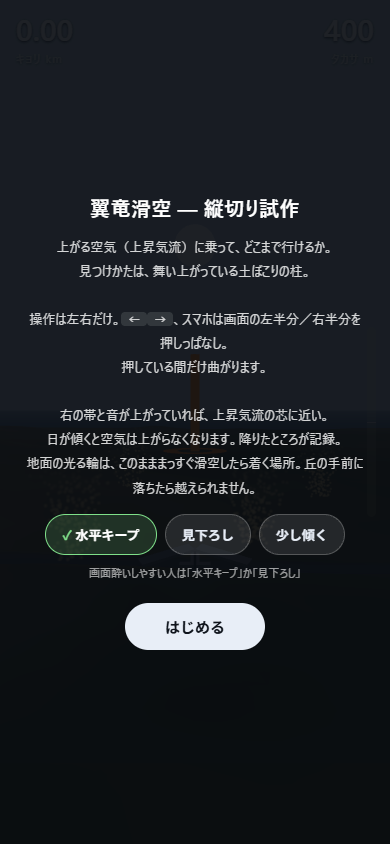
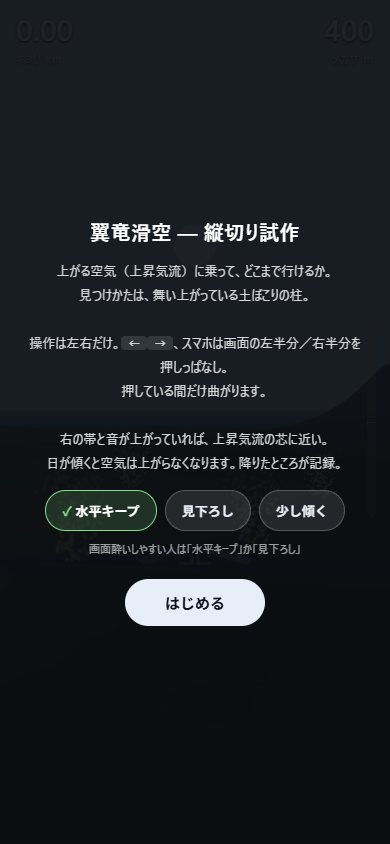
着地点の輪をやめ、越えられない高い山を置いた
所長の試走: 輪は面白くない。高い山があって迂回しなきゃいけない、くらいでいい。

- 着地点の輪と、その計算・検査ツールを削除
- 丘の世界に、5km区画ごと40%で高さ650〜950mの山。雲底では越えられないので回り込む
- 出発地点の近くには置かない。自動操縦で遊べる状態か確認のみ(6.7km、激突3/8)

Changed region(s): [[0.0615, 0.2156, 0.9231, 0.7701], [0.8615, 0.5853, 0.8923, 0.6469]]

diff --git a/src/world.js b/src/world.js
@@ -34,7 +34,38 @@ const smoothstep = (a, b, x) => { const t = Math.max(0, Math.min(1, (x - a) / (b
 function rng(a) { return () => { a |= 0; a = (a + 0x6D2B79F5) | 0; let t = Math.imul(a ^ (a >>> 15), 1 | a); t = (t + Math.imul(t ^ (t >>> 7), 61 | t)) ^ t; return ((t ^ (t >>> 14)) >>> 0) / 4294967296; }; }
 
 export class Terrain {
-  constructor(seed = 17, roughness = 1.0) { this.seed = seed; this.rough = roughness; this.water = 2.0; }
+  constructor(seed = 17, roughness = 1.0) { this.seed = seed; this.rough = roughness; this.water = 2.0; this.peakCells = new Map(); }
+  // 越えられない高い山。広い区画ごとに置くか決める。出発地点の近くには置かない
+  peakIn(ci, cj) {
+    const key = ci + ',' + cj;
+    if (this.peakCells.has(key)) return this.peakCells.get(key);
+    const r = rng(Math.imul(this.seed, 48271) ^ Math.imul(ci, 73856093) ^ Math.imul(cj, 19349663));
+    let pk = null;
+    if (r() < TUNE.peakChance) {
+      const S = TUNE.peakCell;
+      const x = (ci + 0.2 + 0.6 * r()) * S, y = (cj + 0.2 + 0.6 * r()) * S;
+      if (!(Math.abs(x) < 2500 && y > -2500 && y < 3500)) {
+        pk = { x, y, H: TUNE.peakMin + (TUNE.peakMax - TUNE.peakMin) * r(), R: 900 + 700 * r(), s: Math.floor(r() * 1000) };
+      }
+    }
+    this.peakCells.set(key, pk);
+    return pk;
+  }
+  peaks(x, y) {
+    if (!TUNE.peakChance) return 0;
+    const S = TUNE.peakCell, ci = Math.floor(x / S), cj = Math.floor(y / S);
+    let h = 0;
+    for (let i = ci - 1; i <= ci + 1; i++) for (let j = cj - 1; j <= cj + 1; j++) {
+      const p = this.peakIn(i, j);
+      if (!p) continue;
+      const q = ((x - p.x) ** 2 + (y - p.y) ** 2) / (p.R * p.R);
+      if (q > 4) continue;
+      // なだらかな裾＋少しごつごつさせた頂
+      const rough = 0.8 + 0.35 * ridged((x - p.x) / 700, (y - p.y) / 700, this.seed + p.s, 3);
+      h = Math.max(h, p.H * Math.exp(-q * 1.6) * rough);
+    }
+    return h;
+  }
   riverX(y) { return 900 * Math.sin(y / 5200) + 380 * Math.sin(y / 1900 + this.seed * .37); }
   height(x, y) {
     const d = Math.abs(x - this.riverX(y));
@@ -64,6 +95,7 @@ export class Terrain {
       const r = ridged(x / (TUNE.mtnWave * 0.8), y / (TUNE.mtnWave * 0.8), this.seed + 83, 3);
       const shape = Math.max(0, 0.6 * b + 0.4 * r - 0.35) / 0.65;
       mtn = TUNE.mtnHeight * shape * shape * (0.4 + 0.6 * smoothstep(150, 1300, d));
+      mtn = Math.max(mtn, this.peaks(x, y));   // 高い山は丘の上に重ねる
     } else if (TUNE.mtn) {
       mtn = TUNE.mtnHeight * ridged(x / TUNE.mtnWave, y / (TUNE.mtnWave * 2.6), this.seed + 71)
         * smoothstep(TUNE.mtnStart, TUNE.mtnStart + TUNE.mtnRamp, d);
@@ -98,6 +130,9 @@ export const TUNE = {
   // 山と尾根の上昇風(案C)。灰色の試作値。Astraに山を頼む前に、使える寸法をここで探る
   mtn: 0,             // 1で山あり。既定は今までどおり山なし(?world=ridge で山脈)
   mtnMode: 'noise',   // 'noise'=ノイズの山 / 'ranges'=つながった山脈
+  peakChance: 0,      // 高い山を置く確率(区画ごと)。丘の世界で使う
+  peakCell: 5000,     // 区画の大きさ [m]
+  peakMin: 650, peakMax: 950,   // 高い山の高さ [m]。上昇気流の雲底(地面から最大280m)では越えられない
   rangeOffsets: [2600, 5400],   // 川から山脈までの距離 [m]
   rangeWidth: 700,    // 山脈の裾の広さ [m]
   mtnHeight: 340,     // 山の高さの最大 [m]
@@ -115,7 +150,8 @@ export const TUNE = {
 export const WORLDS = {
   flat: {},
   // 既定。尾根の風は使わず、起伏そのものを「避けるか越えるか」の判断にする(所長の試走 2026-09-17)
-  hills: { mtn: 1, mtnMode: 'hills', mtnHeight: 220, mtnWave: 2400 },
+  // 高い山はたまに置く。越えられないので回り込む(所長 2026-09-17)。着地点の輪は「面白くない」で廃止
+  hills: { mtn: 1, mtnMode: 'hills', mtnHeight: 220, mtnWave: 2400, peakChance: 0.4 },
   ridge: { mtn: 1, mtnMode: 'ranges', mtnHeight: 550, rangeWidth: 700, windSpeed: 11, ridgeH: 240, leeCap: 2.5 },
 };
 

diff --git a/src/scene.js b/src/scene.js
@@ -1,6 +1,5 @@
 import * as THREE from 'three';
 import { TUNE } from './world.js';
-import { glideReach } from './flight.js';
 
 // three.jsは右手系で、+X は画面の左に出る。
 // シミュレーション側の x(右が正) をそのまま渡すと左右が反転するので、描画のときだけ反転させる。
@@ -259,15 +258,6 @@ export class View {
     this.dust = new Dust(field);
     this.clouds = new Clouds(field);
     this.scene.add(this.dust.points, this.clouds.points);
-    // このまままっすぐ滑空したら着く場所。地面の輪と細い柱で示す
-    const reachMat = new THREE.MeshBasicMaterial({ color: 0xff8a2a, transparent: true, opacity: 0.95,   // 土ぼこり(クリーム)と見分ける色
-      depthTest: false, depthWrite: false, fog: false, side: THREE.DoubleSide });
-    this.reachRing = new THREE.Mesh(new THREE.RingGeometry(0.55, 1, 48), reachMat);
-    this.reachRing.rotation.x = -Math.PI / 2;
-    this.reachPole = new THREE.Mesh(new THREE.CylinderGeometry(1, 1, 1, 6), reachMat);
-    this.reachRing.renderOrder = this.reachPole.renderOrder = 5;
-    this.scene.add(this.reachRing, this.reachPole);
-    this.reach = null;
     this.glider = makeGlider();
     this.scene.add(this.glider);
     this.fog = new THREE.FogExp2(0xbfd0e0, 0.000075);
@@ -321,19 +311,6 @@ export class View {
     this.dust.update(g.x, g.y, dt, sun);
     this.clouds.update(g.x, g.y, sun);
     this.glider.position.set(SX * g.x, g.z, g.y);
-    // 着地点: 旋回中は向きが変わり続けて意味がないので、傾けるほど薄くする
-    const r = this.reach = glideReach(g);
-    const fade = Math.max(0, 1 - Math.abs(g.bank) / (25 * Math.PI / 180));
-    const on = g.alive && r.hit && fade > 0.02;
-    this.reachRing.visible = this.reachPole.visible = on;
-    if (on) {
-      const k = Math.max(28, r.dist * 0.055);               // 遠くても見える大きさ(1km先で約55m)
-      this.reachRing.position.set(SX * r.x, r.z + 2, r.y);
-      this.reachRing.scale.setScalar(k);
-      this.reachPole.position.set(SX * r.x, r.z + k * 1.5, r.y);
-      this.reachPole.scale.set(k * 0.16, k * 3.0, k * 0.16);
-      this.reachRing.material.opacity = 0.95 * fade;
-    }
     this.glider.rotation.set(0, -g.head, g.bank, 'YXZ');
     // 夕暮れ。時計ではなく空の色で残り時間が分かる
     const day = new THREE.Color(0xbfd0e0), dusk = new THREE.Color(0xd98a5a), night = new THREE.Color(0x2b3348);

diff --git a/src/flight.js b/src/flight.js
@@ -15,19 +15,6 @@ export const sink = V => AIR.c1 / V + AIR.c2 * V * V;
 export const glideRatio = V => V / sink(V);
 // 実際に届く距離は、上昇風の外の沈下こみで決まる。ここを忘れると届かない柱へ突っ込む。
 export const effGlide = V => V / (sink(V) + TUNE.ambient);
-// このまま同じ向きにまっすぐ滑空したら、どこで地面に着くか。上昇風は当てにしない。
-// 地面にぶつかる危険は、いつでも画面から読めるようにするための計算
-export function glideReach(g, maxDist = 9000, step = 60) {
-  const V = AIR.Vcruise, drop = step / effGlide(V);
-  const sx = Math.sin(g.head), sy = Math.cos(g.head);
-  let x = g.x, y = g.y, z = g.z;
-  for (let d = step; d <= maxDist; d += step) {
-    x += sx * step; y += sy * step; z -= drop;
-    const h = g.t.height(x, y);
-    if (z <= h + 2) return { x, y, z: h, dist: d, hit: true };
-  }
-  return { x, y, z: g.t.height(x, y), dist: maxDist, hit: false };
-}
 export const sunlight = t => { const u = Math.max(0, Math.min(1, t / AIR.day)); return Math.max(0, 1 - u * u); };
 
 export class Glider {

diff --git a/index.html b/index.html
@@ -60,8 +60,7 @@
       操作は左右だけ。<kbd>←</kbd><kbd>→</kbd>、スマホは画面の左半分／右半分を押しっぱなし。<br>
       押している間だけ曲がります。<br><br>
       右の帯と音が上がっていれば、上昇気流の芯に近い。<br>
-      日が傾くと空気は上がらなくなります。降りたところが記録。<br>
-      地面の光る輪は、このまままっすぐ滑空したら着く場所。丘の手前に落ちたら越えられません。
+      日が傾くと空気は上がらなくなります。降りたところが記録。
     </p>
     <div id="cams" role="radiogroup" aria-label="カメラ">
       <button type="button" data-cam="a" role="radio">水平キープ</button>

diff --git a/src/main.js b/src/main.js
@@ -174,7 +174,6 @@ window.__slice = {
   ridgeAt(x, y, z) { return field.ridgeAt(x, y, z, sunlight(glider.time)); },
   terrainHeight(x, y) { return terrain.height(x, y); },
   riverX(y) { return terrain.riverX(y); },
-  reach() { return view.reach; },
   forceInput: null,
   _view() { return { camHead: view.camHead, dust: view.dust.points, clouds: view.clouds.points,
                      local: (x, y, z) => view.projectLocal(x, y, z),

diff --git a/docs/FINDINGS.md b/docs/FINDINGS.md
@@ -179,3 +179,10 @@ Astraに山を頼む前に、使える寸法を決めるための試作。
 自動操縦は着地点の印を使わない。激突の数は「起伏が危険として効いている」証拠であって、面白さの証拠ではない。
 
 **将来像（所長 2026-09-17）**: 大きめの山・木を配置し、ステゴサウルス以外の恐竜もAstraに作らせ、生活している様子を見ながら飛ぶ。
+
+## 着地点の輪は廃止、越えられない高い山を追加（2026-09-17 所長の試走）
+
+所長: 「オレンジのリングはいらない、面白くない」「起伏は前よりいい感じ。めちゃめちゃ調整しなくても、高い山があったら迂回しなきゃいけない、でいい」。
+- 輪を削除（計算ごと削除）
+- 丘の世界に、5km区画ごと40%の確率で高さ650〜950mの山を置く。上昇気流の雲底（地面から最大280m）では越えられない。出発地点の近くには置かない
+- 自動操縦での確認のみ（調整はしていない）: 丘だけ 7.5km → 丘＋高い山 6.7km、上り坂への激突 3/8 で変わらず

diff --git a/README.md b/README.md
@@ -20,7 +20,7 @@ npm run dev     # http://localhost:8141
 - 操作は**左右だけ**。`←` `→`（`A` `D`）、スマホは画面の左半分／右半分を押しっぱなし
 - 押している間だけ曲がる。速度は自動（傾けると勝手に減速する）
 - 上がる空気の場所は**舞い上がる土ぼこりの柱**で分かる。数字も矢印も出さない
-- 地面の**オレンジの輪**は、このまままっすぐ滑空したら着く場所。丘の手前に落ちたら越えられない
+- ところどころに**越えられない高い山**がある。回り込む
 - 既定は丘のある世界。`?world=flat` で起伏なし、`?world=ridge` で尾根の風の試作
 - 右の帯と音が上昇率。芯に近いほど高く速く鳴る
 - 日が傾くと空気は上がらなくなる。降りたところが記録
